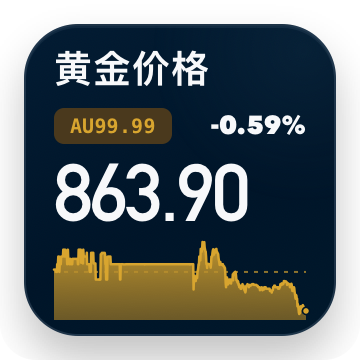
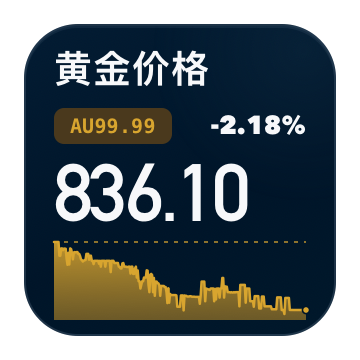
fix(widgets): update daily quote and gold cards

diff --git a/packages/gold-price/style.css b/packages/gold-price/style.css
@@ -43,9 +43,7 @@ body {
   background:
     radial-gradient(circle at 90% 8%, rgba(20, 51, 74, 0.34), transparent 38%),
     linear-gradient(155deg, #031c33 0%, var(--card) 58%, #00182b 100%);
-  box-shadow:
-    inset 0 1px 0 rgba(171, 197, 218, 0.08),
-    0 12px 24px rgba(0, 0, 0, 0.24);
+  box-shadow: inset 0 1px 0 rgba(171, 197, 218, 0.08);
 }
 
 .gold-title {
